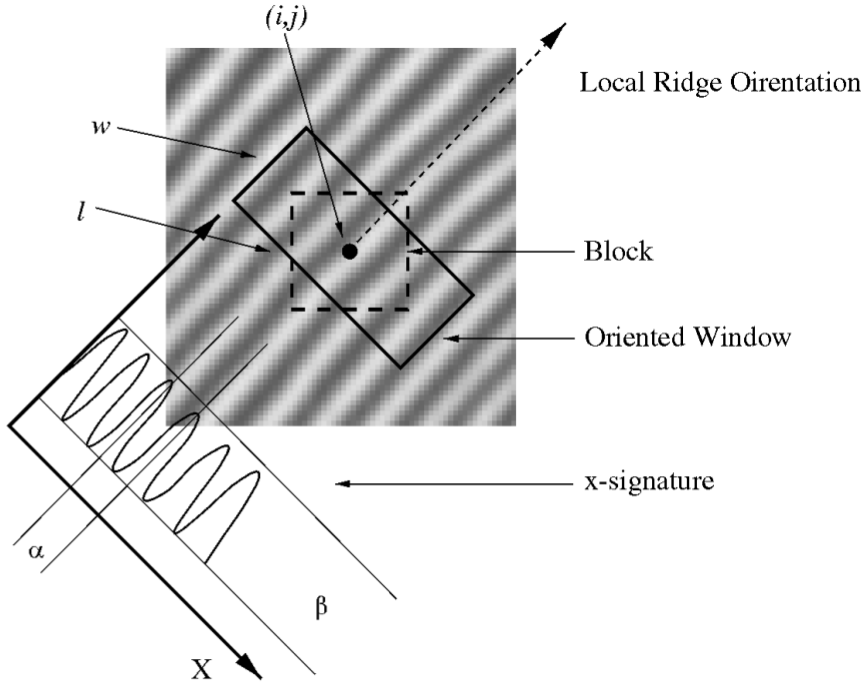
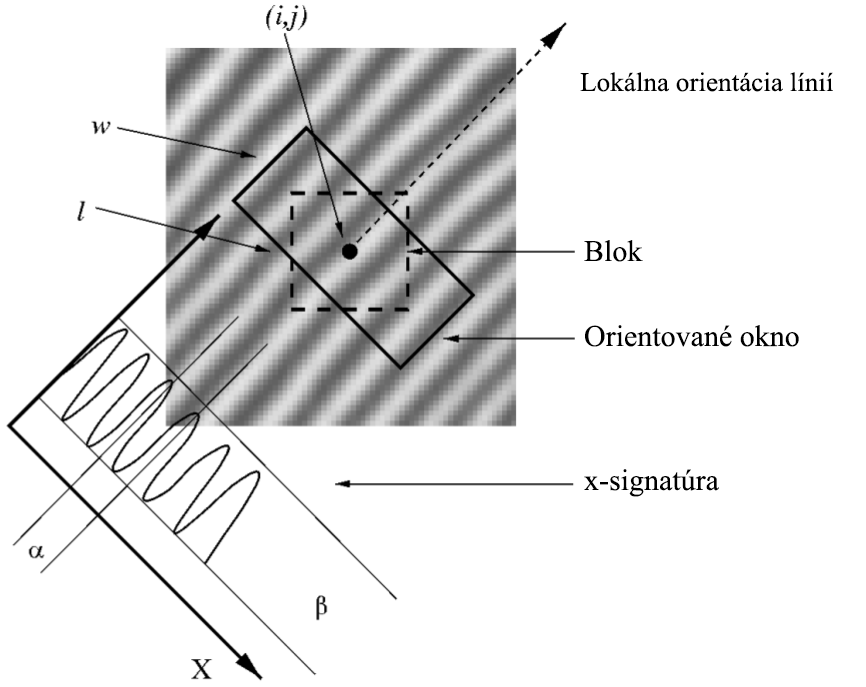
Replace english images with slovak translated ones

diff --git a/doc/projekt-01-kapitoly-chapters.tex b/doc/projekt-01-kapitoly-chapters.tex
@@ -97,7 +97,7 @@
   \begin{figure*}[h]\centering
     \centering
     \begin{subfigure}[b]{0.49\linewidth}
-      \includegraphics[width=\linewidth]{obrazky-figures/zamsa.jpg}
+      \includegraphics[width=\linewidth]{obrazky-figures/zamsa.png}
       \caption{Vrstvy a biologické štruktúry zamše. Prevzaté z \cite{droual_dermis}.}
       \label{obr:zamsa_a_papily/zamsa}
     \end{subfigure}
